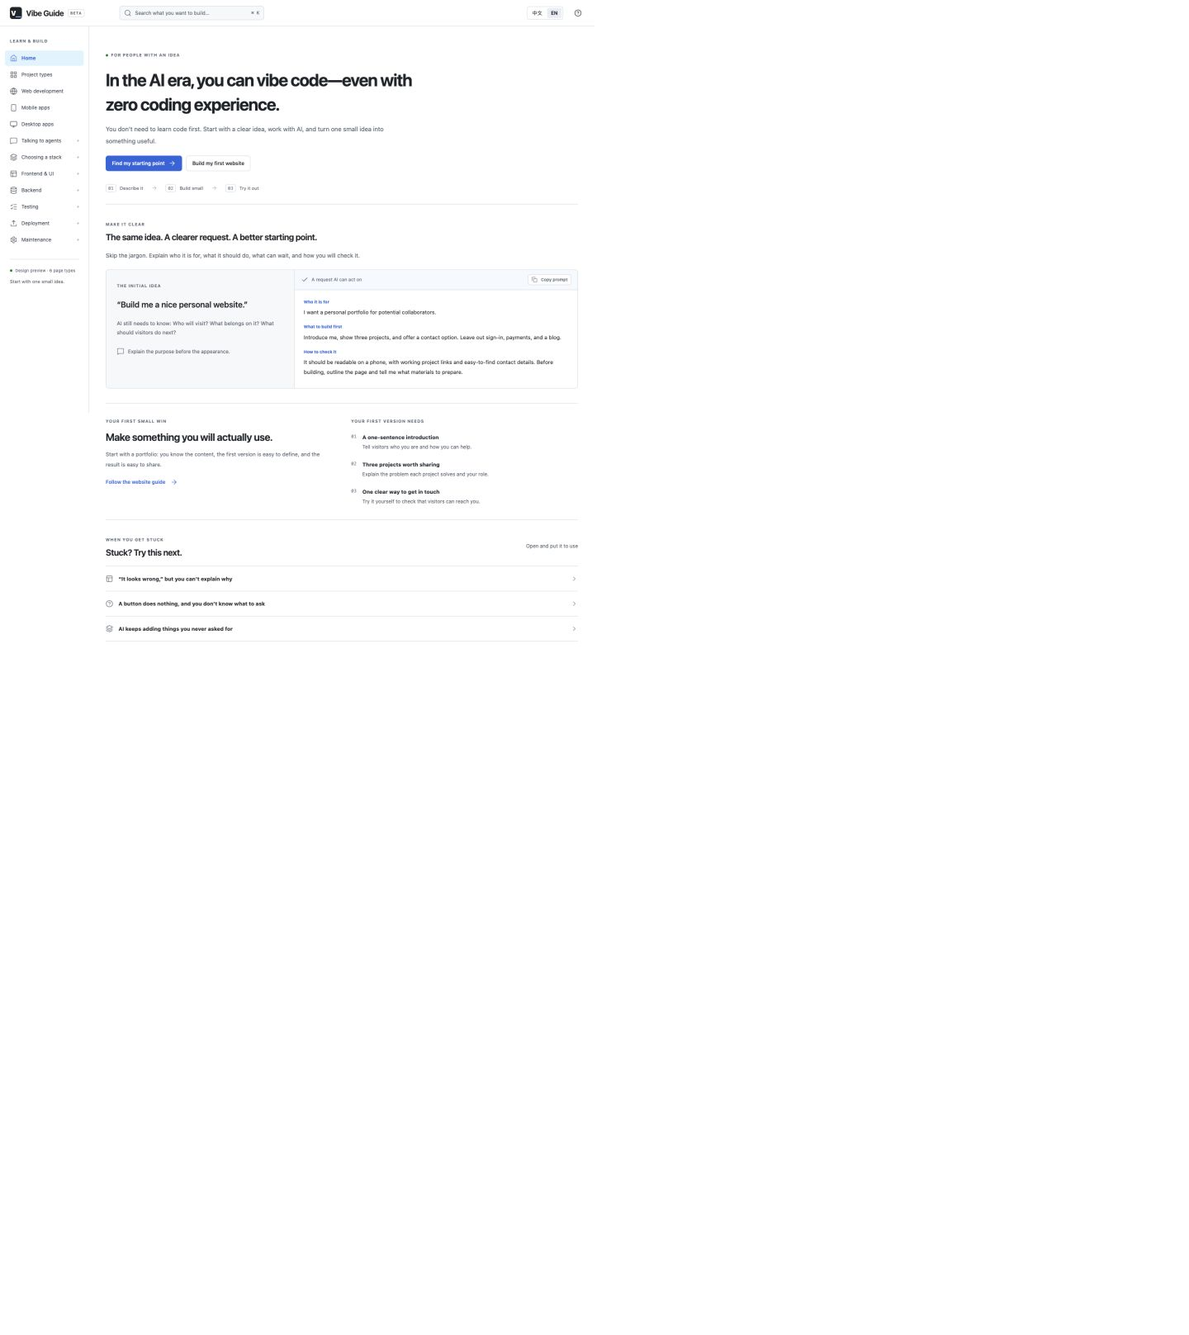
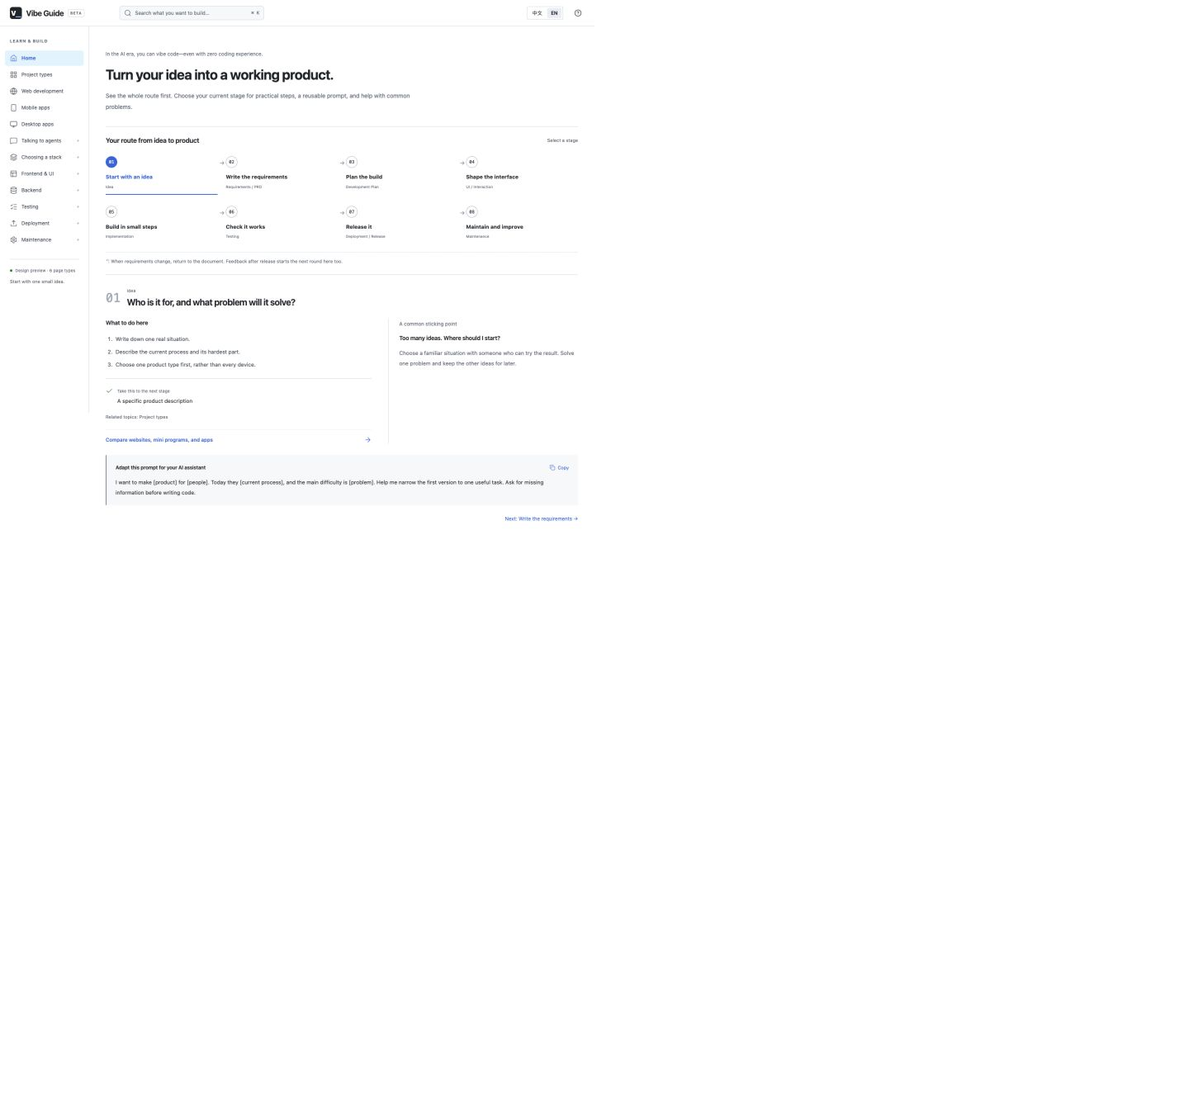
feat: guide homepage through product journey nodes

Changed region(s): [[0.0, 0.0, 0.4688, 0.4656], [0.4375, 0.4035, 0.4688, 0.4346], [0.375, 0.1863, 0.4062, 0.2173]]

diff --git a/src/data/journey.ts b/src/data/journey.ts
@@ -1,0 +1,12 @@
+import type {Copy} from './site';
+export interface Stage {id:string; title:Copy; term:string; question:Copy; output:Copy; actions:Copy[]; problem:Copy; answer:Copy; prompt:Copy; modules:Copy;}
+export const journey:Stage[]=[
+{id:'idea',title:['有一个想法','Start with an idea'],term:'Idea',question:['这个产品给谁用，替他省掉什么麻烦？','Who is it for, and what problem will it solve?'],output:['一句具体的产品描述','A specific product description'],actions:[['写下一个真实的使用场景。','Write down one real situation.'],['描述现在怎么做，哪里最麻烦。','Describe the current process and its hardest part.'],['先选一种产品形式，第一版不要覆盖所有设备。','Choose one product type first, rather than every device.']],problem:['想做的东西太多，不知道从哪里开始。','Too many ideas. Where should I start?'],answer:['选一个你最熟悉、能找到人试用的场景。先解决其中一件事，其他想法单独记下。','Choose a familiar situation with someone who can try the result. Solve one problem and keep the other ideas for later.'],prompt:['我想给【谁】做一个【产品】，因为他们现在【怎样做】，最麻烦的是【问题】。请帮我缩小到第一版能解决的一件事。先问我缺少的信息，不要直接开始写代码。','I want to make [product] for [people]. Today they [current process], and the main difficulty is [problem]. Help me narrow the first version to one useful task. Ask for missing information before writing code.'],modules:['项目分类','Project types']},
+{id:'requirements',title:['写清楚需求','Write the requirements'],term:'Requirements / PRD',question:['用户要能做什么，做到什么程度才算完成？','What should people be able to do, and what counts as done?'],output:['需求文档：记录给谁用、做什么和完成标准','A requirements document: audience, features, and acceptance criteria'],actions:[['列出用户从打开产品到完成目标的操作。','List the steps from opening the product to completing the task.'],['明确第一版必须做、暂时不做的功能。','Separate essential features from things that can wait.'],['每个功能写一条你能亲手检查的结果。','Give each feature a result you can check yourself.']],problem:['AI 一直加功能，越做越偏。','AI keeps adding features and drifting off course.'],answer:['把“不做什么”写进文档。新想法先放进后续清单，修改本版范围前先确认影响。','Write down what is out of scope. Keep new ideas in a later list and review their impact before changing this version.'],prompt:['请把我们确认的想法整理成需求文档，包含：使用者、解决的问题、主要操作流程、第一版功能、暂不做的功能、每项功能的检查方法。把还没确定的问题单独列出，不要替我猜。先给我检查，不开始开发。','Turn our agreed idea into a requirements document: users, problem, main flow, first-version features, excluded features, and a check for each feature. List unresolved questions separately rather than guessing. Let me review it before development.'],modules:['和 Agent 沟通 · 项目分类','Talking to agents · Project types']},
+{id:'plan',title:['安排怎么做','Plan the build'],term:'Development Plan',question:['用什么制作，先做哪一步，需要准备哪些账号和资料？','What will we use, what comes first, and what must be prepared?'],output:['开发文档：把需求变成制作方案和任务顺序','A development plan: tools, decisions, and ordered tasks'],actions:[['把已确认的需求文档交给 AI。','Give AI the agreed requirements document.'],['说明预算、设备、资料是否需要保存或多人共享。','State your budget, devices, and storage or sharing needs.'],['要求每个任务都有能打开检查的小成果。','Ask for a small, inspectable result from every task.']],problem:['AI 推荐一堆技术名字，我根本不知道怎么选。','AI lists technologies I don’t know how to choose.'],answer:['先让它解释每项技术解决什么问题、是否收费、为什么现在需要。不理解的选择先说明，再写入方案。','Ask what each tool solves, whether it costs money, and why it is needed now. Clarify the choice before adding it to the plan.'],prompt:['依据这份需求文档，制定开发文档：页面与主要操作、资料怎么保存、建议的技术和选择理由、需要我准备的账号与费用、分步任务、每一步如何检查。用普通人能理解的语言解释技术名称。未确认的选择标记待确认，不要直接开工。','Create a development plan from these requirements: pages and flows, data storage, proposed tools with reasons, accounts and costs, ordered tasks, and checks for each step. Explain technical names in plain language. Mark unresolved choices rather than starting immediately.'],modules:['技术栈选择 · 后端 · 和 Agent 沟通','Choosing a stack · Backend · Talking to agents']},
+{id:'ui',title:['确定页面和操作','Shape the interface'],term:'UI / Interaction',question:['页面长什么样，点一个地方之后会发生什么？','What will people see, and what happens when they click?'],output:['页面草图和交互说明','Page sketches and interaction notes'],actions:[['先排列内容和主要操作，再确定颜色和细节。','Arrange content and main actions before choosing visual details.'],['看到想要的组件时，找到名字、演示和描述话术。','Find the name, demo, and description of the component you want.'],['说明等待、没内容、出错时分别显示什么。','Describe loading, empty, and error states.']],problem:['我知道想要什么样子，却不知道怎么告诉 AI。','I can picture it, but don’t know what to tell AI.'],answer:['把截图圈出具体区域，补充操作前后会发生什么。例如 Tabs（标签页）：点击不同标题，在同一块区域切换内容，不跳到新页面。','Mark the relevant area in a screenshot and describe before-and-after behavior. For example, tabs switch content in one area when you click a label, without opening a new page.'],prompt:['这里需要 Tabs（标签页）：顶部显示“介绍、价格、常见问题”，默认显示介绍。点击标题只切换下方内容，不打开新页面；当前标题有清楚的选中状态。手机上也能使用，键盘能切换。请先做这个局部让我检查，再应用到完整页面。','Add tabs labeled Overview, Pricing, and FAQ. Show Overview initially. Clicking a tab should change the content below without opening a new page, with a clear selected state. Support phones and keyboard navigation. Show this component for review before adding it to the whole page.'],modules:['前端与 UI → 组件词典（原 HTML 分支，待迁移）','Frontend & UI → Component dictionary (legacy branch, migration pending)']},
+{id:'build',title:['一小步一小步做','Build in small steps'],term:'Implementation',question:['先让哪条操作真正走通？','Which flow should work first?'],output:['一个能运行、能亲手操作的版本','A working version you can try'],actions:[['按开发文档一次完成一个任务。','Work on one task from the plan at a time.'],['自己打开结果，不只看 AI 的完成描述。','Open the result yourself rather than relying on AI’s summary.'],['每个可用版本保存一个可恢复的记录。','Keep a recoverable snapshot of each working version.']],problem:['昨天还能用，今天改完却坏了。','It worked yesterday, but today’s change broke it.'],answer:['让 AI 比较上一个可用版本和本次改动，先定位受影响的操作。恢复前说明会丢掉哪些改动，不要盲目覆盖。','Ask AI to compare the last working version with the changes and identify the affected flow. Before restoring, check which changes would be lost.'],prompt:['按开发文档只完成下一个任务【任务名】，保持其他已完成的功能不变。完成后告诉我怎样打开、点哪里、预期看到什么，并列出未完成部分。检查通过后记录这个可用版本，再继续。','Complete only the next task [name] from the development plan. Preserve existing behavior. Tell me how to open it, what to click, and what to expect, and list anything unfinished. After checking, save a recoverable version before continuing.'],modules:['Web / 手机 / 桌面开发 · 和 Agent 沟通','Web / Mobile / Desktop development · Talking to agents']},
+{id:'test',title:['检查能不能用','Check it works'],term:'Testing',question:['按真实用户的方式操作，会在哪里出问题？','Where does it fail when someone actually uses it?'],output:['检查结果和待修复问题清单','Test results and a list of issues'],actions:[['对照需求文档，一项一项实际操作。','Try every acceptance check in the requirements.'],['试试空内容、重复点击、错误输入和网络异常。','Try empty fields, repeated clicks, invalid input, and connection failures.'],['记录操作步骤、期待结果和实际结果。','Record steps, expected results, and actual results.']],problem:['AI 说测试通过，我点开还是有问题。','AI says tests passed, but I still see a problem.'],answer:['测试通过只说明它检查过的部分。把你实际失败的步骤交给 AI，让它修复后重新走同一条流程。','A passed test only covers what was checked. Give AI your failing steps, then repeat that exact flow after the fix.'],prompt:['我执行了【步骤】，期待【结果】，实际【现象】。请先找原因，再做最小修复。修复后重复这些步骤，并检查相关功能有没有受影响。分别说明自动检查和实际操作的结果，没有检查的部分明确列出。','I followed [steps], expected [result], but saw [actual behavior]. Find the cause and make a focused fix. Repeat these steps and check related behavior. Separate automated checks from actual interaction results, and list anything untested.'],modules:['测试 · 后端 · 前端与 UI','Testing · Backend · Frontend & UI']},
+{id:'launch',title:['让别人用上','Release it'],term:'Deployment / Release',question:['离开你的电脑，别人也能打开或安装吗？','Can someone else open or install it away from your computer?'],output:['可访问的网址或可安装的发布版本','A usable public link or installable release'],actions:[['确认发布渠道、账号、费用和需要提供的材料。','Confirm the channel, account, costs, and required materials.'],['检查公开内容不包含密码、密钥和私人测试资料。','Check that public files exclude passwords, keys, and private test data.'],['从正式入口再走一遍主要操作，并准备恢复办法。','Try the main flow through the released version and prepare a recovery plan.']],problem:['本机可以用，发给别人却打不开。','It works for me, but other people cannot open it.'],answer:['确认分享的是正式网址或安装包，而不是只在本机可用的预览地址。记录对方设备和具体提示，再检查。','Check that you shared a released URL or installer rather than a local preview address. Record the other person’s device and exact message.'],prompt:['请根据我的产品类型列出发布步骤、费用和所需账号。先检查发布包不含私人资料，并准备恢复到上一版的方法。发布前让我确认目标和费用；发布后从正式入口验证主要流程，区分已完成和仍需我操作的部分。','List release steps, costs, and accounts for this product type. Check for private data in the release and prepare a way back to the previous version. Let me confirm the destination and costs before release. Verify the main flow through the live entry point and state what still needs my action.'],modules:['部署上线 · 项目对应平台','Deployment · Your target platform']},
+{id:'maintain',title:['照看和改进','Maintain and improve'],term:'Maintenance',question:['有人使用之后，怎样保持可用、控制费用并改进？','How will it stay useful, reliable, and affordable?'],output:['维护清单和下一版计划','A maintenance checklist and next-version plan'],actions:[['记录费用、到期时间和重要资料的备份办法。','Record costs, renewal dates, and backup arrangements.'],['收集具体使用问题，优先修复影响主要操作的故障。','Collect specific problems and prioritize broken core flows.'],['更新前保存旧版本，更新后再检查原有功能。','Save the previous version before updates and recheck existing flows.']],problem:['每次加新功能，旧功能就出问题。','New features keep breaking existing ones.'],answer:['保留一份主要操作检查表，每次更新都重复检查。较大的新需求重新回到需求节点，确认范围后再做。','Keep a core-flow checklist and repeat it with every update. Return larger changes to the requirements stage before building.'],prompt:['请为当前产品整理维护清单：服务与费用、续期时间、备份和恢复办法、每次更新必须检查的操作。把用户反馈分成故障和新需求；先处理故障，新需求回到需求文档确认后再安排。','Create a maintenance checklist: services and costs, renewals, backups and recovery, and checks required for each update. Separate bug reports from new requests. Fix problems first and confirm new requests in the requirements before scheduling them.'],modules:['运维 · 测试 · 需求文档','Maintenance · Testing · Requirements']}
+];

diff --git a/src/styles/global.css b/src/styles/global.css
@@ -3,3 +3,4 @@
 @media(prefers-reduced-motion:reduce){*{transition:none!important;scroll-behavior:auto!important}}
 .nowrap{white-space:nowrap}
 .prompt-comparison{display:grid;grid-template-columns:.8fr 1.2fr;border:1px solid var(--line);border-radius:8px;overflow:hidden;margin-top:22px}.vague-request{padding:26px;background:var(--soft);border-right:1px solid var(--line)}.vague-request blockquote{margin:19px 0;font-size:20px;font-weight:550;line-height:1.6}.vague-request>p{font-size:13px;color:var(--muted)}.lesson-principle{display:flex;gap:9px;align-items:center;margin-top:26px;font-size:12px;color:var(--muted)}.clear-request .prompt-heading{background:#f5faff}.clear-request #home-prompt{padding:5px 22px 13px}.clear-request p{font-size:13px;line-height:1.85;margin:14px 0}.clear-request b{display:block;font-size:10px;color:var(--blue);margin-bottom:4px}.starter-feature{display:grid;grid-template-columns:1fr 1fr;border-top:1px solid var(--line);border-bottom:1px solid var(--line);padding:30px 0;gap:45px}.starter-story h2{margin:12px 0;font-size:25px}.starter-story p{font-size:13px;color:var(--muted);line-height:1.9}.starter-story .text-link{border:0;justify-content:flex-start;gap:12px;padding-top:0}.starter-deliverables ol{list-style:none;padding:0;margin:14px 0 0}.starter-deliverables li{display:flex;gap:14px;margin-top:17px}.starter-deliverables li>span{font:11px monospace;color:#818b98;padding-top:4px}.starter-deliverables strong{font-size:13px}.starter-deliverables p{font-size:12px;color:var(--muted);margin:3px 0}.home-faq{border-top:1px solid var(--line)}.home-faq details{border-bottom:1px solid var(--line)}.home-faq summary{padding:19px 0}.home-faq summary>svg:first-child{color:var(--muted);margin-left:0}.home-faq details>div{padding:0 29px 20px;font-size:13px;color:var(--muted)}.home-faq blockquote{margin:15px 0;background:var(--soft);border-left:2px solid var(--blue);padding:15px 18px;color:#1f2328;line-height:1.9}@media(max-width:639px){.prompt-comparison,.starter-feature{grid-template-columns:1fr}.vague-request{border-right:0;border-bottom:1px solid var(--line);padding:20px}.vague-request blockquote{font-size:18px}.starter-feature{gap:18px}.starter-story h2{font-size:22px}.home-faq summary strong{font-size:12px}.home-faq details>div{padding-left:0;padding-right:0}}
+.journey-intro{max-width:790px;padding:5px 0 24px}.journey-intro h1{font-size:34px;margin:16px 0}.journey-intro>p:last-child{color:var(--muted);font-size:14px;line-height:1.9}.route-heading{display:flex;justify-content:space-between;align-items:center;gap:15px}.route-heading h2{font-size:16px}.route-heading>span{font-size:11px;color:var(--muted)}.journey-map{border-top:1px solid var(--line);border-bottom:1px solid var(--line);padding:22px 0 13px}.route-nodes{list-style:none;padding:0;margin:28px 0 18px;display:grid;grid-template-columns:repeat(4,minmax(0,1fr));gap:27px 20px;counter-reset:stage}.route-nodes li{position:relative}.route-nodes li:not(:nth-child(4n)):after{content:'→';position:absolute;right:-17px;top:5px;color:#8c99a6}.route-node{display:block;position:relative;padding:0 0 8px;border-bottom:2px solid transparent}.node-index{display:grid;place-items:center;border:1px solid #aebac6;border-radius:50%;width:28px;height:28px;font:11px monospace;background:#fff;margin-bottom:11px}.route-node strong{font-size:13px;display:block}.route-node small{font-size:9px;color:var(--muted)}.route-node.selected{border-bottom-color:var(--blue)}.route-node.selected .node-index{background:var(--blue);border-color:var(--blue);color:#fff}.route-node.selected strong,.route-node:hover strong{color:var(--blue)}.route-return{font-size:11px;color:var(--muted);border-top:1px dashed var(--line);padding-top:12px}.stage-workspace{margin-top:30px}.stage-workspace section{scroll-margin-top:84px}.stage-heading{display:flex;gap:15px;align-items:center;margin-bottom:25px}.stage-heading h2{font-size:22px}.stage-heading p{margin:0 0 5px}.stage-number{font:30px monospace;color:#9ba9b6}.stage-columns{display:grid;grid-template-columns:1.4fr 1fr;gap:40px}.stage-columns h3{font-size:14px}.stage-actions{padding-left:20px;margin:14px 0;font-size:13px;color:#424c57}.stage-actions li{padding:5px 0 5px 4px}.stage-output{display:flex;gap:10px;border-top:1px solid var(--line);padding-top:16px;margin-top:18px}.stage-output svg{color:#1a7f37;margin-top:4px}.stage-output span{font-size:10px;color:var(--muted)}.stage-output p{font-size:13px;margin:3px 0}.stage-modules{font-size:11px;color:var(--muted);margin-top:16px}.stage-problem{border-left:1px solid var(--line);padding-left:26px}.stage-problem h3{margin:12px 0;line-height:1.7}.stage-problem p{font-size:13px;color:var(--muted);line-height:1.9}.stage-template{margin-top:27px;background:var(--soft);padding:18px 22px;border-left:2px solid #818b98}.stage-template h3{font-size:12px}.stage-template>p{font-size:13px;line-height:1.95;margin-bottom:0}.copy-inline{display:flex;gap:6px;align-items:center;font-size:11px;color:var(--blue);padding:3px 0;white-space:nowrap}.stage-pagination{display:flex;justify-content:space-between;margin:23px 0;font-size:12px;color:var(--blue);gap:15px}.next-stage{margin-left:auto}#journey-status{font-size:12px;color:#1a7f37}.button{border-radius:3px}.segmented,.languages{border-radius:3px}@media(max-width:639px){.journey-intro h1{font-size:27px}.route-nodes{grid-template-columns:repeat(2,minmax(0,1fr));gap:20px}.route-nodes li:nth-child(2n):after{display:none}.stage-columns{grid-template-columns:1fr;gap:22px}.stage-problem{border-left:0;border-top:1px solid var(--line);padding:18px 0 0}.stage-heading h2{font-size:19px}.stage-template{padding:15px}.route-heading>span{font-size:9px}.route-node strong{font-size:12px}}

diff --git a/docs/design-system.md b/docs/design-system.md
@@ -136,3 +136,7 @@ GitHub 以仓库产品界面为参考，不采用官网营销首屏。Hugging Fa
 ## 首页调整（用户反馈后的当前方案）
 
 首页正文移除与左侧导航重复的板块目录。Slogan 下依次呈现：模糊需求与清楚需求的对比及可复制提示词、个人作品站第一版清单与路线链接、三种常见卡点的具体处理方法。中英文同步。此前线框中的首页模块目录由本方案替代，左侧十二板块导航保留。
+
+## 当前首页主线：产品制作节点图
+
+用户进一步明确：首页以“想法 → 需求文档 → 开发文档 → 页面与操作 → 开发 → 测试 → 部署上线 → 维护”组织，不以说教文章或重复栏目目录为主。每站提供操作、产出、常见障碍与答案、可复制提示词，以及下一站入口。专业术语配白话解释。UI 组件词典归属页面与交互节点的组件分支，原 HTML 是该分支的资料和体验基线。节点可用地址锚点直达；中英文切换保留节点。现阶段为可交互路线预览，完整子模块和旧词典迁移仍需继续实施。本方案替代此前首页内容排列。

diff --git a/docs/layout-wireframes.md b/docs/layout-wireframes.md
@@ -142,3 +142,7 @@ Web 站点开发     │ [从第一个网站开始]  [先看看项目分类]
 ## 首页调整（用户反馈后的当前方案）
 
 首页正文移除与左侧导航重复的板块目录。Slogan 下依次呈现：模糊需求与清楚需求的对比及可复制提示词、个人作品站第一版清单与路线链接、三种常见卡点的具体处理方法。中英文同步。此前线框中的首页模块目录由本方案替代，左侧十二板块导航保留。
+
+## 当前首页主线：产品制作节点图
+
+用户进一步明确：首页以“想法 → 需求文档 → 开发文档 → 页面与操作 → 开发 → 测试 → 部署上线 → 维护”组织，不以说教文章或重复栏目目录为主。每站提供操作、产出、常见障碍与答案、可复制提示词，以及下一站入口。专业术语配白话解释。UI 组件词典归属页面与交互节点的组件分支，原 HTML 是该分支的资料和体验基线。节点可用地址锚点直达；中英文切换保留节点。现阶段为可交互路线预览，完整子模块和旧词典迁移仍需继续实施。本方案替代此前首页内容排列。

diff --git a/docs/product-requirements.md b/docs/product-requirements.md
@@ -84,3 +84,7 @@
 ## 双语补充（2026-09-23）
 
 全站提供简体中文与英文。逻辑地址统一增加 `/zh-cn` 或 `/en` 前缀，切换语言保留页面。标题、说明、提示词和交互反馈完整翻译；布局适配英文长度。当前六种页面已制作可交互视觉预览，范围及规则见 [双语预览说明](bilingual-preview.md)，效果见 [验证记录](preview-review.md)。原规划中尚未实施的模块继续保持待制作状态。
+
+## 当前首页主线：产品制作节点图
+
+用户进一步明确：首页以“想法 → 需求文档 → 开发文档 → 页面与操作 → 开发 → 测试 → 部署上线 → 维护”组织，不以说教文章或重复栏目目录为主。每站提供操作、产出、常见障碍与答案、可复制提示词，以及下一站入口。专业术语配白话解释。UI 组件词典归属页面与交互节点的组件分支，原 HTML 是该分支的资料和体验基线。节点可用地址锚点直达；中英文切换保留节点。现阶段为可交互路线预览，完整子模块和旧词典迁移仍需继续实施。本方案替代此前首页内容排列。

diff --git a/docs/preview-review.md b/docs/preview-review.md
@@ -34,3 +34,7 @@
 ## 首页第二版
 
 根据用户反馈移除重复分类，改为需求对比、起步示例与卡点处理。中文复制按钮显示成功、折叠问题可展开；英文内容完整呈现；中英文 320px 检查无整页横向溢出。首页三张截图已更新为当前版本。类型、构建和链接验证再次通过。
+
+## 首页第三版：产品制作节点图
+
+以八阶段路线替代首页文章排列。每站包含行动、交付物、障碍解答和提示词。节点地址可直接访问，中英切换保留位置。浏览器验证需求节点、复制成功及语言切换；320px 英文无横向溢出。类型、构建和锚点检查通过。当前是阶段指引，不代表所有资料模块及原 UI 组件词典已经迁移。首页截图已更新。
